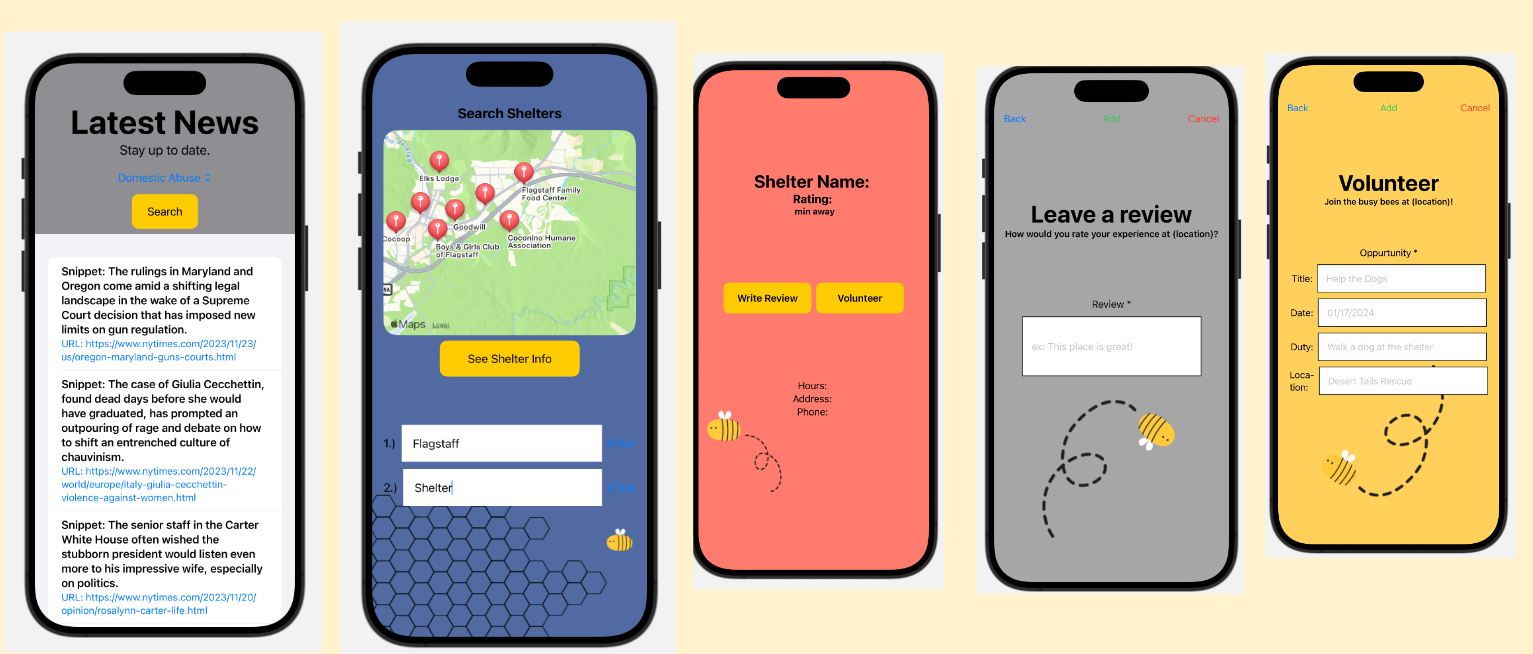
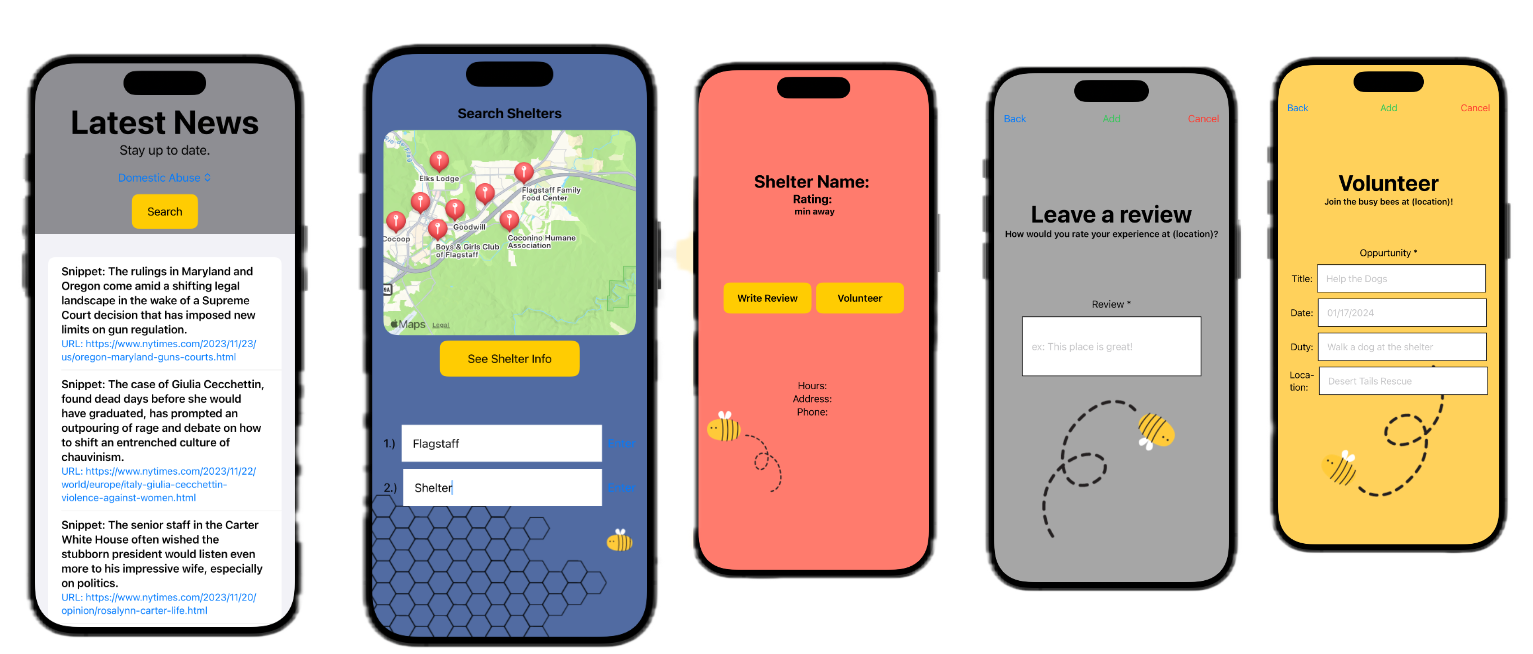
edits to Project component, Next, and images

Changed region(s): [[0.0, 0.0, 1.0, 1.0]]

diff --git a/src/routes/ShelterHive.js b/src/routes/ShelterHive.js
@@ -5,22 +5,21 @@ import { Carousel } from "react-responsive-carousel";
 import "react-responsive-carousel/lib/styles/carousel.min.css";
 import hive1 from "../assets/shelterhive/homepage1.png";
 import hive2 from "../assets/shelterhive/pics.png";
-import hive3 from "../assets/shelterhive/hivepics.png";
-import hive4 from "../assets/shelterhive/hivepics2.png";
+import hive3 from "../assets/shelterhive/hivepics-copy.png";
+import hive4 from "../assets/shelterhive/hivepics2 -copy.png";
 
 const ShelterHive = () => {
   const images = [hive1, hive2, hive3, hive4];
   const projectNames = ["sowshare", "gatzbys", "shelterHive", "cookbook"];
   const currProject = projectNames.indexOf("shelterHive");
   return (
-    <div>
+    <div className="page-layout-wrapper">
       <div className="detail-container">
         <div className="project-overview">
           <h1 id="project-title-header">ShelterHive</h1>
-          <h3>-Full-Stack Website</h3>
-          <h2>Technologies Used</h2>
-          <p>Swift, Xcode</p>
-
+          <h3>Full Stack Website</h3>
+          <h2>Languages Used</h2>
+          <p>Swift | Xcode</p>
           <h2>Overview</h2>
           <p>
             The concept behind this app is to foster community engagement. It
@@ -31,11 +30,11 @@ const ShelterHive = () => {
 
           <h2>Features</h2>
           <ul>
-            <li>- User profile creation and authentication</li>
-            <li>- News retrieval and display using APIs</li>
-            <li>- Shelter search and information using APIs</li>
-            <li>- User can review the shelter</li>
-            <li>- User can write a volunteer opportunity for the shelter</li>
+            <li>• User profile creation and authentication</li>
+            <li>• News retrieval and display using APIs</li>
+            <li>• Shelter search and information using APIs</li>
+            <li>• User can review the shelter</li>
+            <li>• User can write a volunteer opportunity for the shelter</li>
           </ul>
 
           <h2>Challenges</h2>

diff --git a/src/routes/CookBook.js b/src/routes/CookBook.js
@@ -14,13 +14,13 @@ const CookBook = () => {
   const projectNames = ["sowshare", "gatzbys", "shelterHive", "cookbook"];
   const currProject = projectNames.indexOf("cookbook");
   return (
-    <div>
+    <div className="page-layout-wrapper"> 
       <div className="detail-container">
         <div className="project-overview">
           <h1 id="project-title-header">CookBook</h1>
-          <h3>Full-Stack Website</h3>
-          <h2>Technologies Used</h2>
-          <p>React, JavaScript, Node.js, Express.js, SQL, HTML, CSS</p>
+          <h3>Full Stack Website</h3>
+          <h2>Languages Used</h2>
+          <p>React | JavaScript | Node.js | Express.js | SQL | HTML | CSS</p>
 
           <h2>Overview</h2>
           <p>
@@ -35,14 +35,14 @@ const CookBook = () => {
 
           <h2>Features</h2>
           <ul>
-            <li>- Integration with MySQL for backend services and storage</li>
-            <li>- Dynamic recipe creation and rendering</li>
+            <li>• Integration with MySQL for backend services and storage</li>
+            <li>• Dynamic recipe creation and rendering</li>
             <li>
-              - Users can browse recipes based on the categories: Breakfast,
+              • Users can browse recipes based on the categories: Breakfast,
               Lunch, Dinner, Dessert, and Appetizer
             </li>
             <li>
-              - Responsive Design: The application adapts to different screen
+              • Responsive Design: The application adapts to different screen
               sizes and follows the flexbox layout
             </li>
           </ul>

diff --git a/src/routes/SowShare.js b/src/routes/SowShare.js
@@ -18,14 +18,15 @@ const SowShare = () => {
   const currProject = projectNames.indexOf("sowshare");
 
   return (
-    <div>
+    /* 🛠 Change the plain <div> below to use your new layout class */
+    <div className="page-layout-wrapper">
       <div className="detail-container">
         <div className="project-overview">
           <h1 id="project-title-header">Sow&Share</h1>
-          <h3>- Full-Stack Website</h3>
-          <h2>Technologies Used</h2>
+          <h3>Full Stack Website</h3>
+          <h2>Languages Used</h2>
 
-          <p>React, JavaScript, Firebase, HTML, CSS</p>
+          <p>React | JavaScript | Firebase | HTML | CSS</p>
           <h2>Overview</h2>
           <p>
             Inspired by ShesACrowd, Sow&Share is a full-stack web application
@@ -40,10 +41,10 @@ const SowShare = () => {
 
           <h2>Features</h2>
           <ul>
-            <li>- User authentication</li>
-            <li>- Integration with Firebase backend services</li>
-            <li>- Dynamic content creation</li>
-            <li>- Friendly UI/UX design</li>
+            <li>• User authentication</li>
+            <li>• Integration with Firebase backend services</li>
+            <li>• Dynamic content creation</li>
+            <li>• Friendly UI/UX design</li>
           </ul>
 
           <h2>Challenges</h2>
@@ -73,7 +74,3 @@ const SowShare = () => {
 };
 
 export default SowShare;
-
-/*I wanted
-            a project to start my commitment to leveraging technology for
-            positive societal impact.*/

diff --git a/src/routes/Gatzbys.js b/src/routes/Gatzbys.js
@@ -16,13 +16,13 @@ const Gatzbys = () => {
   const projectNames = ["sowshare", "gatzbys", "shelterHive", "cookbook"];
   const currProject = projectNames.indexOf("gatzbys");
   return (
-    <div>
+    <div className="page-layout-wrapper">
       <div className="detail-container">
         <div className="project-overview">
           <h1 id="project-title-header">Gatzby's</h1>
-          <h3>- Full-Stack Website</h3>
-          <h2>Technologies Used</h2>
-          <p>Django, Python, HTML, CSS</p>
+          <h3>Full Stack Website</h3>
+          <h2>Languages Used</h2>
+          <p>Django | Python | HTML | CSS</p>
 
           <h2>Overview</h2>
           <p>
@@ -37,12 +37,12 @@ const Gatzbys = () => {
 
           <h2>Features</h2>
           <ul>
-            <li>- User Profiles & Authentication</li>
-            <li>- Django Backend Integration</li>
-            <li>- Admin and Client side versions</li>
-            <li>- Psychoogy-based questionnaire</li>
+            <li>• User Profiles & Authentication</li>
+            <li>• Django Backend Integration</li>
+            <li>• Admin and Client side versions</li>
+            <li>• Psychology-based questionnaire</li>
             <li>
-              - Built-in Algorithm with Visual Results: includes exportable .csv
+              • Built-in Algorithm with Visual Results: includes exportable .csv
               file results
             </li>
           </ul>

diff --git a/src/components/Experience.js b/src/components/Experience.js
@@ -27,7 +27,7 @@ const Experience = () => {
             • Designed and implemented a robust ticketing system using SQL, Microsoft Azure, and Python for managing tech support requests, organizing ticket notes for over 100 clients<br />
             • Crafted a user-friendly interface with Javascript, HTML, and CSS, with a grid-based layout, scrollable sections, and aesthetic enhancements to improve overall design and UX<br />
             • Optimized SQL queries for faster data retrieval and implemented PowerShell scripts to automate the storage of media files, systematically organizing them by individual ticket<br />
-            • Developed tools and widgets including a timer to track ticket progress, an email widget for direct communication, and a pie chart displaying ticket statuses and refined the Homepage Layout
+            • Developed tools and widgets including a timer to track ticket progress, an email widget for direct communication, and a pie chart displaying ticket statuses and refined the Homepage layout
           </p>
           </p>
 

diff --git a/src/routes/ProjectDetails.css b/src/routes/ProjectDetails.css
@@ -27,12 +27,12 @@
 
 .project-overview p {
   font-size: 14px;
-  color: #9aa6bd;
+  color: #4a5568;
 }
 
 .project-overview li {
   font-size: 14px;
-  color: #9aa6bd;
+  color: #4a5568;
   list-style: none;
 }
 
@@ -54,7 +54,7 @@
 .carousel-container {
   width: 50%;
   height: 50%;
-  /* border: 2px solid rgb(65, 64, 64);*/
+
 }
 
 .carousel-root {
@@ -84,4 +84,23 @@
     width: 100%;
     margin-top: 10px;
   }
+}
+.page-layout-wrapper {
+  display: flex;
+  flex-direction: column;
+  min-height: 100vh; 
+}
+
+.detail-container {
+  flex: 1; 
+  background-color: white;
+  display: flex;
+  flex-direction: row;
+  flex-wrap: wrap;
+  justify-content: center;
+  gap: 50px;
+  align-content: center;
+  margin-top: 30px;
+  margin-bottom: 10px;
+  font-family: ui-sans-serif, system-ui, -apple-system, BlinkMacSystemFont, sans-serif;
 }

diff --git a/src/components/Projects.js b/src/components/Projects.js
@@ -41,6 +41,7 @@ const Projects = () => {
           <a
             className="git-link"
             onClick={() => handleGitLinkClick(projectName)}
+            
           ></a>
         ) : (
           <a
@@ -119,9 +120,6 @@ const Projects = () => {
           <div className="language-container">
             <div className="language-item">React.js</div>
             <div className="language-item">JavaScript</div>
-            <div className="language-item">Node.js</div>
-            <div className="language-item">Express.js</div>
-            <div className="language-item">SQL</div>
             <div className="language-item">HTML</div>
             <div className="language-item">CSS</div>
           </div>

diff --git a/src/components/Projects.css b/src/components/Projects.css
@@ -39,7 +39,7 @@
   padding: 16px;
 }
 
-/* project title + meta */
+
 #project-title {
   margin-top: 10px;
   font-size: 18px;
@@ -47,8 +47,8 @@
 }
 
 .project-item p {
-  color: #9aa6bd;
-  font-size: 14px;
+  color: #4a5568;
+  font-size: 12px;
   margin-bottom: 15px;
 }
 
@@ -97,7 +97,7 @@
 }
 
 .language-item {
-  font-size: 14px;
+  font-size: 13px;
   background-color: rgb(239, 236, 236);
   width: max-content;
   padding: 5px 5px;
@@ -147,6 +147,8 @@
 }
 
 .link-style {
+  font-size: 12px;
+  font-weight: bold;
   text-decoration: none;
   color: inherit;
 }

diff --git a/src/components/Next.css b/src/components/Next.css
@@ -4,19 +4,19 @@
   justify-content: space-between;
   align-items: space-between;
   background-color: white;
-
   border-top: 1px solid #adb6c5;
 }
 
 .next-item {
   color: #9aa6bd;
-  font-size: 13px;
   width: auto;
   padding: 10px 10px;
 }
 
 #full-btn {
+  font-size: 12px;
   cursor: pointer;
+  font-weight: bold;
   width: 150px;
   height: 30px;
   border: none;

diff --git a/src/components/Contact.css b/src/components/Contact.css
@@ -189,6 +189,8 @@
   border: none;
   background-color: black;
   color: #9aa6bd;
+  font-weight: bold;
+  font-size: 12px;
   cursor: pointer;
 }
 

diff --git a/src/components/Experience.css b/src/components/Experience.css
@@ -50,7 +50,9 @@
 .experience-detail {
   font-size: 14px;
   color: #4a5568;
+
 }
+
 
 @media (max-width: 768px) {
   .experience-item {
